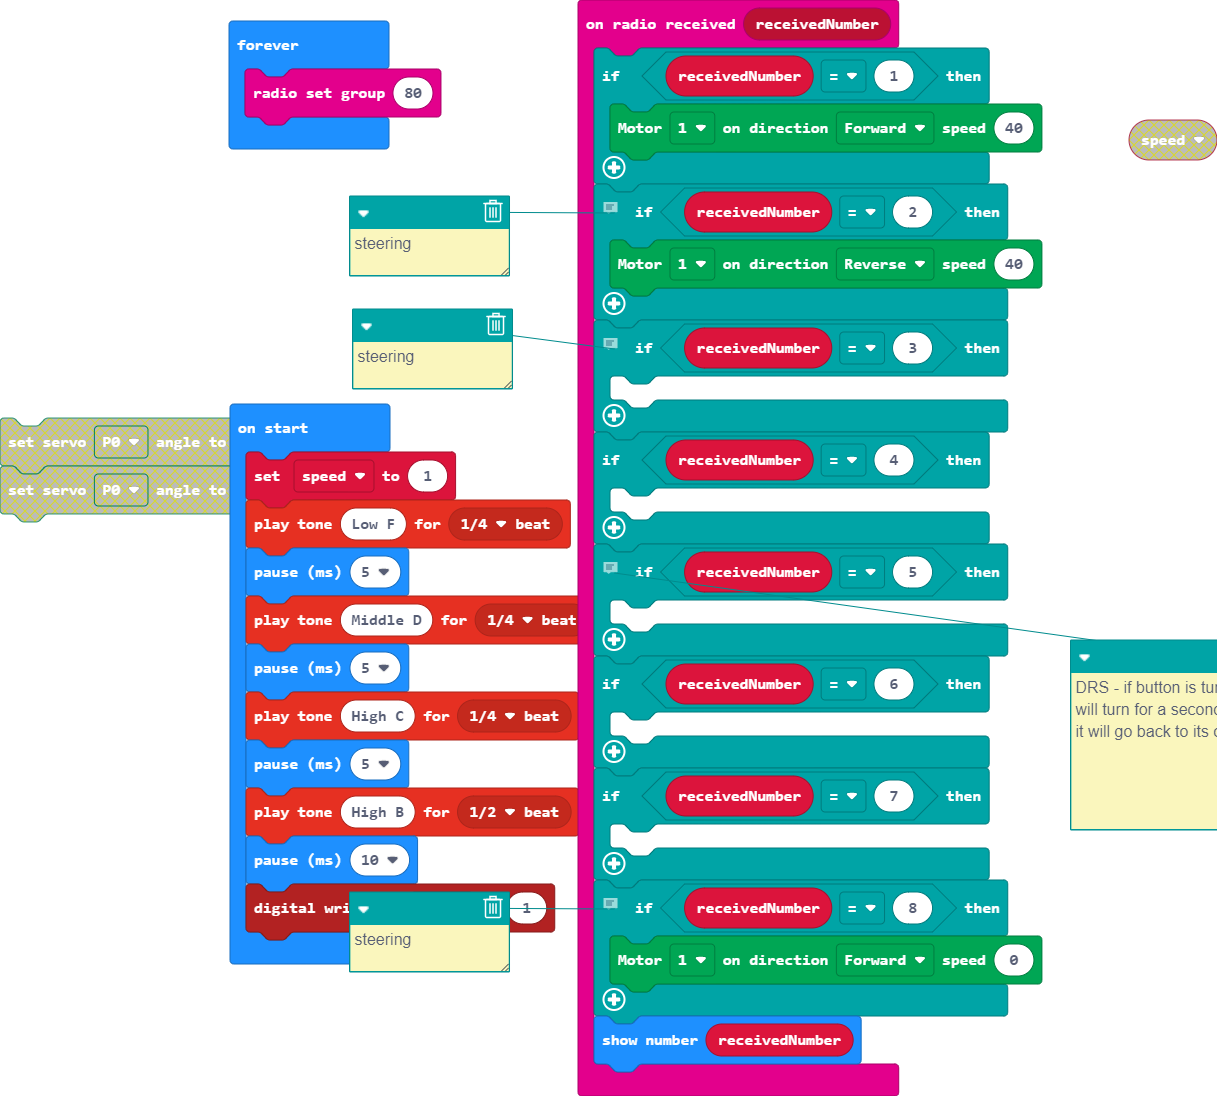
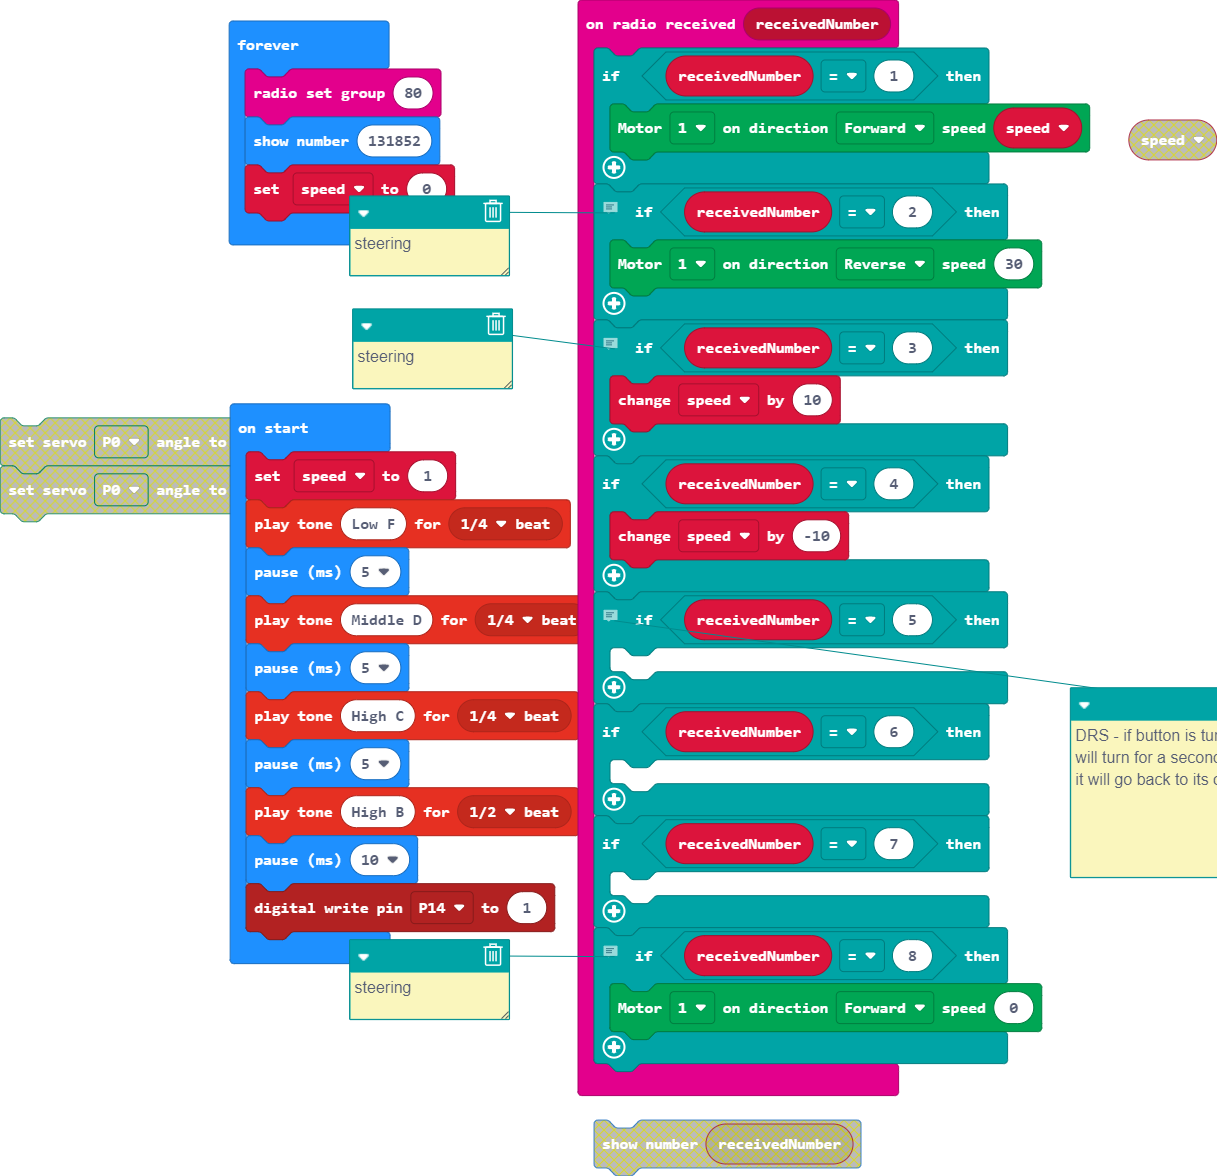
Update main.blocks, main.ts

diff --git a/main.ts b/main.ts
@@ -1,17 +1,17 @@
 radio.onReceivedNumber(function (receivedNumber) {
     if (receivedNumber == 1) {
-        Kitronik_Robotics_Board.motorOn(Kitronik_Robotics_Board.Motors.Motor1, Kitronik_Robotics_Board.MotorDirection.Forward, 40)
+        Kitronik_Robotics_Board.motorOn(Kitronik_Robotics_Board.Motors.Motor1, Kitronik_Robotics_Board.MotorDirection.Forward, speed)
     }
     // steering
     if (receivedNumber == 2) {
-        Kitronik_Robotics_Board.motorOn(Kitronik_Robotics_Board.Motors.Motor1, Kitronik_Robotics_Board.MotorDirection.Reverse, 40)
+        Kitronik_Robotics_Board.motorOn(Kitronik_Robotics_Board.Motors.Motor1, Kitronik_Robotics_Board.MotorDirection.Reverse, 30)
     }
     // steering
     if (receivedNumber == 3) {
-    	
+        speed += 10
     }
     if (receivedNumber == 4) {
-    	
+        speed += -10
     }
     // DRS - if button is turned on motor 4 will turn for a second, when turned off it will go back to its original position
     if (receivedNumber == 5) {
@@ -27,9 +27,9 @@ radio.onReceivedNumber(function (receivedNumber) {
     if (receivedNumber == 8) {
         Kitronik_Robotics_Board.motorOn(Kitronik_Robotics_Board.Motors.Motor1, Kitronik_Robotics_Board.MotorDirection.Forward, 0)
     }
-    basic.showNumber(receivedNumber)
 })
-let speed = 1
+let speed = 0
+speed = 1
 music.playTone(175, music.beat(BeatFraction.Quarter))
 basic.pause(5)
 music.playTone(294, music.beat(BeatFraction.Quarter))
@@ -41,4 +41,6 @@ basic.pause(10)
 pins.digitalWritePin(DigitalPin.P14, 1)
 basic.forever(function () {
     radio.setGroup(80)
+    basic.showNumber(131852)
+    speed = 0
 })
